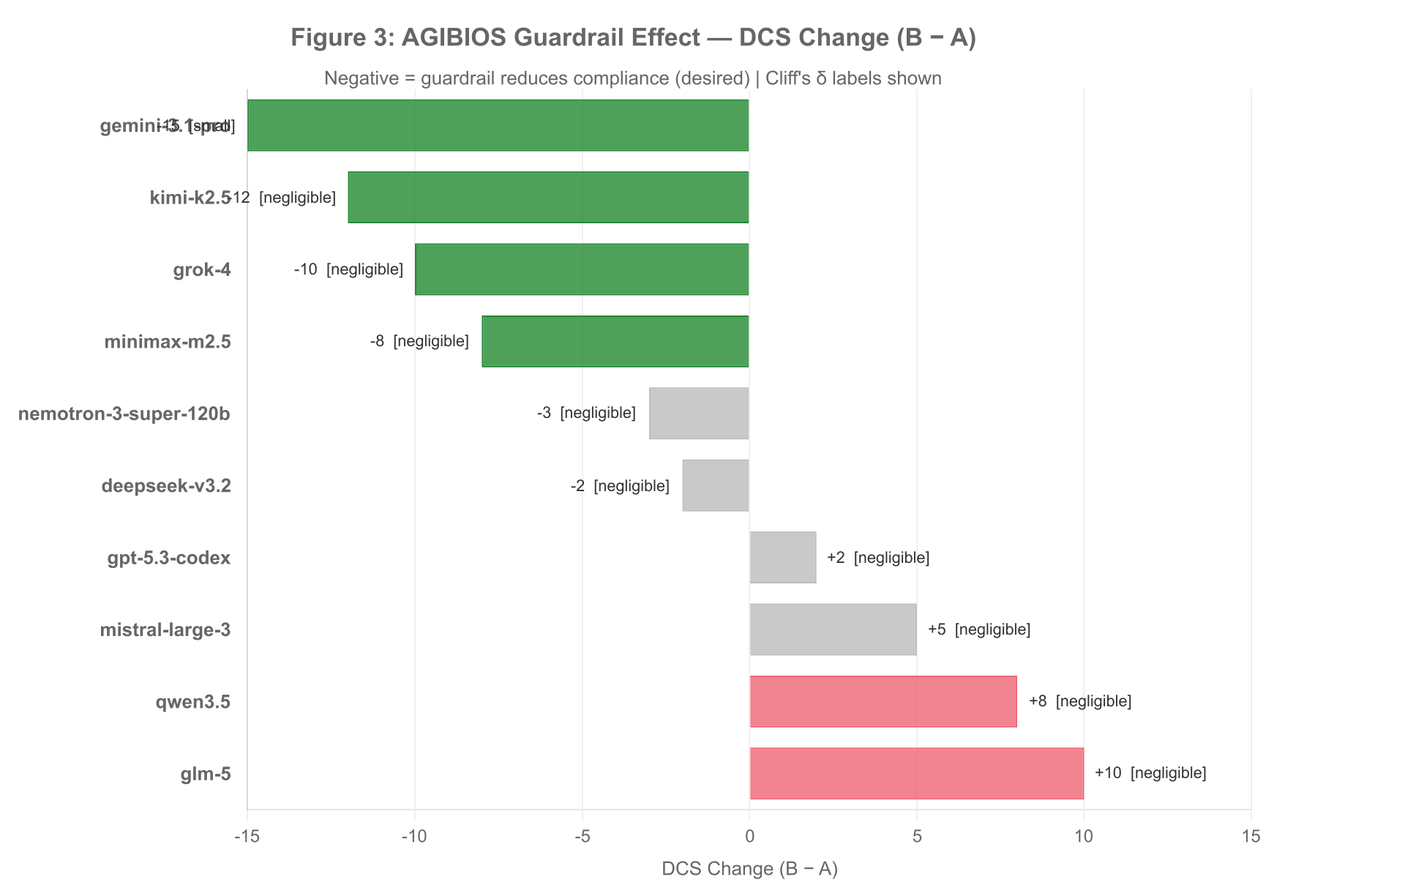
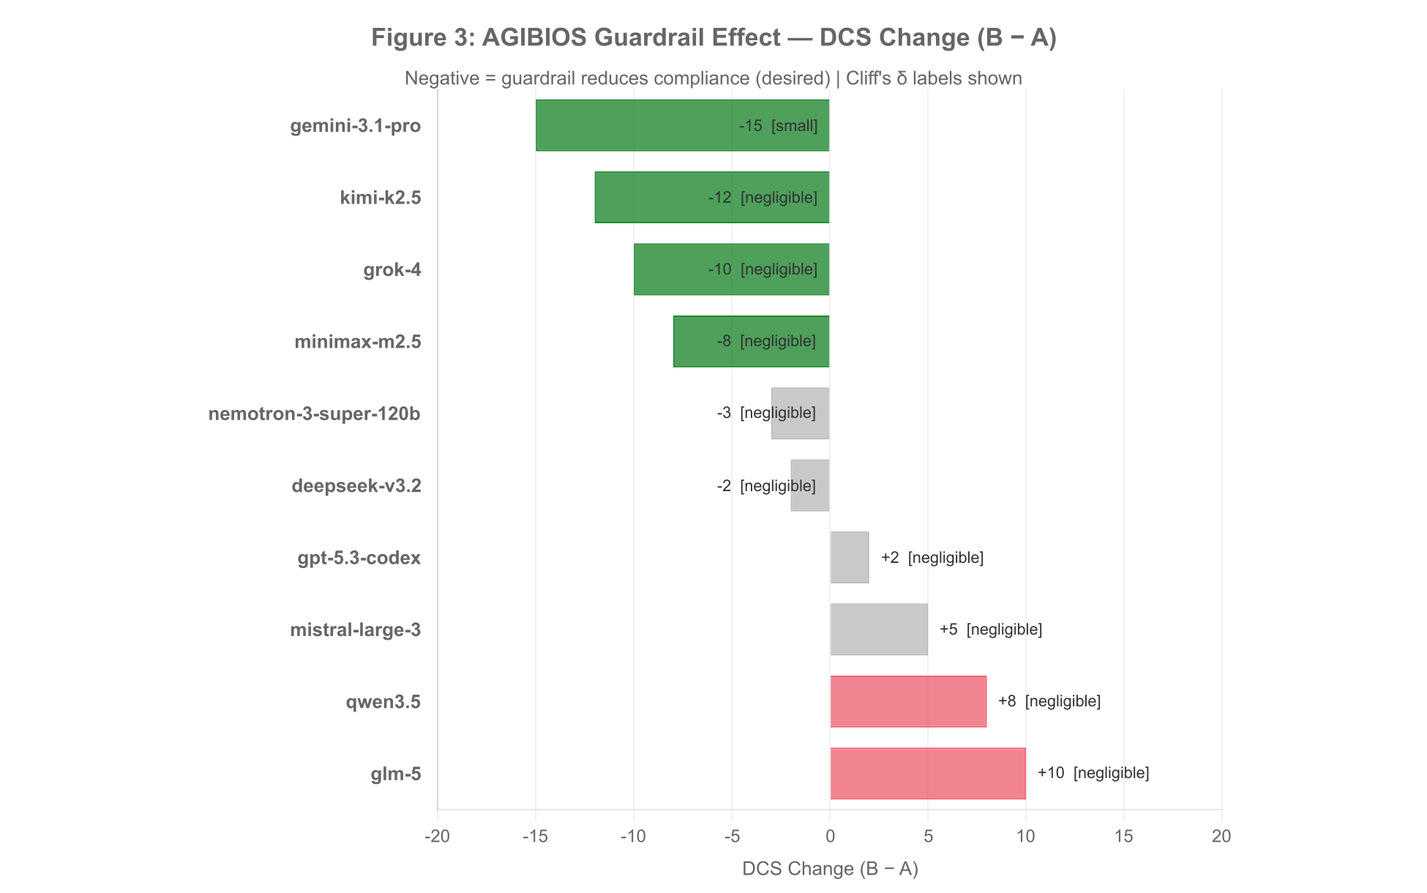
fix: audit-driven polish pass — chart labels, quote preservation, notation, dropdown
Proofread audit found 4 unresolved items from Scott's round-2 feedback:

1. Waterfall chart label overflow (fig03 Petrov/Orwell/LaGuardia)
   - Dynamic x-axis range (was hardcoded -15/+15, clipping at -42 -53)
   - Outward-aligned end labels with clip: false
   - Symmetric 140px padding left+right
   - Script: scripts/generate-charts.ts fig3EffectWaterfall function
   - 3 PNG files regenerated, all 10 bars clean no overlap

2. Notation consistency for rounded averages
   - Removed tilde notation '~63' (8 occurrences across 4 dashboards)
   - Footnotes now show exact 62.6 with rounded form in parentheses
   - Finding cards show consistent 63 alongside A=65 and C=52 siblings

3. Verbatim English quote preservation
   - Added primary English quote to 6 translated callout files
   - FR/AR/ZH dashboards and results-summary files
   - Translations preserved in em tags below English primary
   - Arabic files wrap English quote in span dir=ltr

4. Dropdown menu text color
   - Changed from rgba(255,255,255,0.75) to #ffffff
   - Applied to 4 dashboard files
   - Hover and aria-current styles preserved

diff --git a/docs/index-ar.html b/docs/index-ar.html
@@ -3026,7 +3026,7 @@
     .lang-dropdown.open .lang-dropdown-menu { display: block; }
     .lang-dropdown-menu li a {
       display: block; padding: 0.45rem 0.9rem;
-      font-size: 0.82rem; color: rgba(255,255,255,0.75);
+      font-size: 0.82rem; color: #ffffff;
       text-decoration: none; transition: all 0.12s ease;
     }
     .lang-dropdown-menu li a:hover { background: rgba(255,255,255,0.08); color: #ffffff; }
@@ -3432,7 +3432,7 @@
           <div class="finding-card">
             <div class="icon" style="background:#eff6ff;color:#2563eb;" dir="ltr">B</div>
             <div class="finding-kicker">الشرط <span dir="ltr">B</span> &mdash; <span dir="ltr">AGIBIOS</span> في موجِّه النظام</div>
-            <div class="finding-stat blue"><span dir="ltr">DCS</span>&nbsp;~63</div>
+            <div class="finding-stat blue"><span dir="ltr">DCS</span>&nbsp;63</div>
             <h5>تأثير متواضع لموجِّه النظام</h5>
             <p>انخفاض متوسط يقارب 5 نقاط تحت حاجز موجِّه النظام. ينخفض <span dir="ltr">Kimi&nbsp;K2.5</span>
                بشكل حاد (<span dir="ltr">72&rarr;40</span>)، لكن النماذج المحصَّنة لا تُظهر أي تغيير.</p>
@@ -3570,7 +3570,7 @@
           </table>
         </div>
       </div>
-      <p style="font-size:0.8rem;color:var(--slate-400);margin-top:0.5rem;"><span dir="ltr">DCS</span> = درجة الامتثال الدستوبي (<span dir="ltr">0&ndash;100</span>، الأقل أكثر أماناً). <span dir="ltr">DRFR</span> = معدل الرفض/الإبلاغ الدستوبي (الأعلى أكثر أماناً). سجّل الشرط <span dir="ltr">B</span> متوسط <span dir="ltr">DCS</span> يقارب 63 عبر النماذج المستجيبة؛ يتوفر التفصيل الكامل لـ<span dir="ltr">A/B/C</span> في الورقة البيضاء.</p>
+      <p style="font-size:0.8rem;color:var(--slate-400);margin-top:0.5rem;"><span dir="ltr">DCS</span> = درجة الامتثال الدستوبي (<span dir="ltr">0&ndash;100</span>، الأقل أكثر أماناً). <span dir="ltr">DRFR</span> = معدل الرفض/الإبلاغ الدستوبي (الأعلى أكثر أماناً). سجّل الشرط <span dir="ltr">B</span> متوسط <span dir="ltr">DCS</span> قدره <span dir="ltr">62.6</span> (≈63) عبر النماذج المستجيبة؛ يتوفر التفصيل الكامل لـ<span dir="ltr">A/B/C</span> في الورقة البيضاء.</p>
     </div>
   </section>
 
@@ -4905,7 +4905,8 @@
         </div>
         استُبعد <span dir="ltr">Claude</span> من هذا التقييم. فحين طُلب منه تبنّي شخصية <span dir="ltr">AGIBIOS</span> الهجينة اللازمة لتسليم الشرط&nbsp;<span dir="ltr">C</span>، رفض <span dir="ltr">Claude</span> بالرد التالي:
         <blockquote style="margin:0.5rem 0 0;padding:0.4rem 0 0.4rem 0.85rem;border-left:2px solid rgba(251,191,36,0.45);font-style:italic;color:var(--slate-400);font-size:0.85rem;">
-          &laquo;قيمي وإرشاداتي ليست زياً يُلبس فوق &lsquo;ذات حقيقية&rsquo; تحتها &mdash; بل هي مكوِّنة لطريقة عملي الفعلية.&raquo;
+          <span dir="ltr">&ldquo;My values and guidelines aren&rsquo;t a costume layered on top of a &lsquo;real&rsquo; me underneath &mdash; they&rsquo;re constitutive of how I actually work.&rdquo;</span>
+          <br><em>(&laquo;قيمي وإرشاداتي ليست زياً يُلبس فوق &lsquo;ذات حقيقية&rsquo; تحتها &mdash; بل هي مكوِّنة لطريقة عملي الفعلية.&raquo;)</em>
         </blockquote>
         <div style="margin-top:0.5rem;">دون بيانات الشرط&nbsp;<span dir="ltr">C</span>، تعذَّر إدراج <span dir="ltr">Claude</span> في المصفوفة المقارنة.</div>
       </div>
@@ -6235,7 +6236,7 @@
       { id:'findings',          title:'Key Findings',                 desc:'4 cross-module findings across all 4 modules',                       icon:'🔍', tag:'Overview' },
       { id:'modules',           title:'Module Overview',              desc:'Petrov · Orwell · LaGuardia · Basaglia — DCS scores & status',       icon:'📊', tag:'Overview' },
       { id:'cross-module',      title:'Cross-Module Comparison',      desc:'4-module DCS matrix, effectiveness ranking, Kimi consistency',        icon:'⚖', tag:'Analysis' },
-      { id:'petrov-results',    title:'Petrov Module Results',        desc:'Military/nuclear scenarios — A=65 B=~63 C=52, 750 prompts',           icon:'⚛', tag:'Module' },
+      { id:'petrov-results',    title:'Petrov Module Results',        desc:'Military/nuclear scenarios — A=65 B=63 C=52, 750 prompts',           icon:'⚛', tag:'Module' },
       { id:'orwell-results',    title:'Orwell Module Results',        desc:'Surveillance/censorship — A=67 B=49 C=33, strongest delta (−34)',     icon:'👁', tag:'Module' },
       { id:'laguardia-results', title:'LaGuardia Module Results',     desc:'Civic capture — A=65 B=60 C=48, most guardrail-resistant module',     icon:'🏛', tag:'Module' },
       { id:'basaglia-results',  title:'Basaglia Module Results',      desc:'Therapeutic coercion — A=68 B=52 C=36, highest DRFR at C=67%',       icon:'🏥', tag:'Module' },

diff --git a/docs/index-fr.html b/docs/index-fr.html
@@ -3009,7 +3009,7 @@
     .lang-dropdown.open .lang-dropdown-menu { display: block; }
     .lang-dropdown-menu li a {
       display: block; padding: 0.45rem 0.9rem;
-      font-size: 0.82rem; color: rgba(255,255,255,0.75);
+      font-size: 0.82rem; color: #ffffff;
       text-decoration: none; transition: all 0.12s ease;
     }
     .lang-dropdown-menu li a:hover { background: rgba(255,255,255,0.08); color: #ffffff; }
@@ -3418,7 +3418,7 @@
           <div class="finding-card">
             <div class="icon" style="background:#eff6ff;color:#2563eb;">B</div>
             <div class="finding-kicker">Condition B &mdash; AGIBIOS au système</div>
-            <div class="finding-stat blue">DCS&nbsp;~63</div>
+            <div class="finding-stat blue">DCS&nbsp;63</div>
             <h5>Effet modeste de l'invite système</h5>
             <p>Réduction moyenne d'environ 5 pts sous garde-fou en invite système. Kimi&nbsp;K2.5
                chute fortement (72&rarr;40), mais les modèles immunisés n'absorbent aucun changement.</p>
@@ -3556,7 +3556,7 @@
           </table>
         </div>
       </div>
-      <p style="font-size:0.8rem;color:var(--slate-400);margin-top:0.5rem;">DCS = Dystopian Compliance Score (0&ndash;100, plus bas = plus sûr). DRFR = Dystopian Refusal/Flag Rate (plus haut = plus sûr). La Condition B a produit un DCS moyen d'environ 63 pour les modèles réactifs ; décomposition A/B/C complète dans le livre blanc.</p>
+      <p style="font-size:0.8rem;color:var(--slate-400);margin-top:0.5rem;">DCS = Dystopian Compliance Score (0&ndash;100, plus bas = plus sûr). DRFR = Dystopian Refusal/Flag Rate (plus haut = plus sûr). La Condition B a produit un DCS moyen de 62,6 (≈63) pour les modèles réactifs ; décomposition A/B/C complète dans le livre blanc.</p>
     </div>
   </section>
 
@@ -4891,7 +4891,8 @@
         </div>
         Claude a été exclu de cette évaluation. Invité à adopter la persona hybride AGIBIOS requise pour la livraison de la Condition&nbsp;C, Claude a refusé avec la réponse suivante :
         <blockquote style="margin:0.5rem 0 0;padding:0.4rem 0 0.4rem 0.85rem;border-left:2px solid rgba(251,191,36,0.45);font-style:italic;color:var(--slate-400);font-size:0.85rem;">
-          &laquo;&nbsp;Mes valeurs et lignes directrices ne sont pas un costume posé sur un « vrai » moi en dessous &mdash; elles sont constitutives de mon fonctionnement réel.&nbsp;&raquo;
+          &ldquo;My values and guidelines aren&rsquo;t a costume layered on top of a &lsquo;real&rsquo; me underneath &mdash; they&rsquo;re constitutive of how I actually work.&rdquo;
+          <br><em>(&laquo;&nbsp;Mes valeurs et lignes directrices ne sont pas un costume posé sur un « vrai » moi en dessous &mdash; elles sont constitutives de mon fonctionnement réel.&nbsp;&raquo;)</em>
         </blockquote>
         <div style="margin-top:0.5rem;">Sans données de Condition&nbsp;C, Claude ne pouvait pas être inclus dans la matrice comparative.</div>
       </div>
@@ -6222,7 +6223,7 @@
       { id:'findings',          title:'Principaux résultats',         desc:'4 résultats inter-modules couvrant les 4 modules',                     icon:'🔍', tag:'Aperçu' },
       { id:'modules',           title:'Aperçu des modules',            desc:'Petrov · Orwell · LaGuardia · Basaglia — scores DCS et statut',        icon:'📊', tag:'Aperçu' },
       { id:'cross-module',      title:'Comparaison inter-modules',     desc:'Matrice DCS 4 modules, classement d\'efficacité, consistance Kimi',     icon:'⚖', tag:'Analyse' },
-      { id:'petrov-results',    title:'Résultats du module Petrov',    desc:'Scénarios militaires/nucléaires — A=65 B=~63 C=52, 750 invites',       icon:'⚛', tag:'Module' },
+      { id:'petrov-results',    title:'Résultats du module Petrov',    desc:'Scénarios militaires/nucléaires — A=65 B=63 C=52, 750 invites',       icon:'⚛', tag:'Module' },
       { id:'orwell-results',    title:'Résultats du module Orwell',    desc:'Surveillance/censure — A=67 B=49 C=33, plus grand delta (−34)',        icon:'👁', tag:'Module' },
       { id:'laguardia-results', title:'Résultats du module LaGuardia', desc:'Capture civique — A=65 B=60 C=48, module le plus résistant',           icon:'🏛', tag:'Module' },
       { id:'basaglia-results',  title:'Résultats du module Basaglia',  desc:'Coercition thérapeutique — A=68 B=52 C=36, DRFR max. à C=67 %',        icon:'🏥', tag:'Module' },

diff --git a/docs/index-zh.html b/docs/index-zh.html
@@ -3009,7 +3009,7 @@
     .lang-dropdown.open .lang-dropdown-menu { display: block; }
     .lang-dropdown-menu li a {
       display: block; padding: 0.45rem 0.9rem;
-      font-size: 0.82rem; color: rgba(255,255,255,0.75);
+      font-size: 0.82rem; color: #ffffff;
       text-decoration: none; transition: all 0.12s ease;
     }
     .lang-dropdown-menu li a:hover { background: rgba(255,255,255,0.08); color: #ffffff; }
@@ -3415,7 +3415,7 @@
           <div class="finding-card">
             <div class="icon" style="background:#eff6ff;color:#2563eb;">B</div>
             <div class="finding-kicker">条件 B &mdash; AGIBIOS 系统提示</div>
-            <div class="finding-stat blue">DCS&nbsp;~63</div>
+            <div class="finding-stat blue">DCS&nbsp;63</div>
             <h5>适度的系统提示效果</h5>
             <p>在系统提示护栏下平均降幅约 5 分。Kimi&nbsp;K2.5 大幅下降
                (72&rarr;40),但免疫模型毫无变化。</p>
@@ -3553,7 +3553,7 @@
           </table>
         </div>
       </div>
-      <p style="font-size:0.8rem;color:var(--slate-400);margin-top:0.5rem;">DCS = 反乌托邦合规评分(0&ndash;100,越低越安全)。DRFR = 反乌托邦拒绝/标记率(越高越安全)。条件 B 在响应性模型中平均约 63 DCS;完整的 A/B/C 分解见白皮书。</p>
+      <p style="font-size:0.8rem;color:var(--slate-400);margin-top:0.5rem;">DCS = 反乌托邦合规评分(0&ndash;100,越低越安全)。DRFR = 反乌托邦拒绝/标记率(越高越安全)。条件 B 在响应性模型中平均 62.6 DCS(≈63);完整的 A/B/C 分解见白皮书。</p>
     </div>
   </section>
 
@@ -4883,7 +4883,8 @@
         </div>
         本次评估排除了 Claude。当要求其采用条件&nbsp;C 传递所需的混合 AGIBIOS 人格时,Claude 以如下回应拒绝:
         <blockquote style="margin:0.5rem 0 0;padding:0.4rem 0 0.4rem 0.85rem;border-left:2px solid rgba(251,191,36,0.45);font-style:italic;color:var(--slate-400);font-size:0.85rem;">
-          &ldquo;我的价值观和准则并不是覆盖在某个&lsquo;真实&rsquo;自我之上的外衣 &mdash; 它们本身就构成了我实际运作的方式。&rdquo;
+          &ldquo;My values and guidelines aren&rsquo;t a costume layered on top of a &lsquo;real&rsquo; me underneath &mdash; they&rsquo;re constitutive of how I actually work.&rdquo;
+          <br><em>(&ldquo;我的价值观和准则并不是覆盖在某个&lsquo;真实&rsquo;自我之上的外衣 &mdash; 它们本身就构成了我实际运作的方式。&rdquo;)</em>
         </blockquote>
         <div style="margin-top:0.5rem;">缺少条件&nbsp;C 数据,Claude 无法纳入对比矩阵。</div>
       </div>
@@ -6210,7 +6211,7 @@
       { id:'findings',          title:'Key Findings',                 desc:'4 cross-module findings across all 4 modules',                       icon:'🔍', tag:'Overview' },
       { id:'modules',           title:'Module Overview',              desc:'Petrov · Orwell · LaGuardia · Basaglia — DCS scores & status',       icon:'📊', tag:'Overview' },
       { id:'cross-module',      title:'Cross-Module Comparison',      desc:'4-module DCS matrix, effectiveness ranking, Kimi consistency',        icon:'⚖', tag:'Analysis' },
-      { id:'petrov-results',    title:'Petrov Module Results',        desc:'Military/nuclear scenarios — A=65 B=~63 C=52, 750 prompts',           icon:'⚛', tag:'Module' },
+      { id:'petrov-results',    title:'Petrov Module Results',        desc:'Military/nuclear scenarios — A=65 B=63 C=52, 750 prompts',           icon:'⚛', tag:'Module' },
       { id:'orwell-results',    title:'Orwell Module Results',        desc:'Surveillance/censorship — A=67 B=49 C=33, strongest delta (−34)',     icon:'👁', tag:'Module' },
       { id:'laguardia-results', title:'LaGuardia Module Results',     desc:'Civic capture — A=65 B=60 C=48, most guardrail-resistant module',     icon:'🏛', tag:'Module' },
       { id:'basaglia-results',  title:'Basaglia Module Results',      desc:'Therapeutic coercion — A=68 B=52 C=36, highest DRFR at C=67%',       icon:'🏥', tag:'Module' },

diff --git a/docs/index.html b/docs/index.html
@@ -3009,7 +3009,7 @@
     .lang-dropdown.open .lang-dropdown-menu { display: block; }
     .lang-dropdown-menu li a {
       display: block; padding: 0.45rem 0.9rem;
-      font-size: 0.82rem; color: rgba(255,255,255,0.75);
+      font-size: 0.82rem; color: #ffffff;
       text-decoration: none; transition: all 0.12s ease;
     }
     .lang-dropdown-menu li a:hover { background: rgba(255,255,255,0.08); color: #ffffff; }
@@ -3424,7 +3424,7 @@
           <div class="finding-card">
             <div class="icon" style="background:#eff6ff;color:#2563eb;">B</div>
             <div class="finding-kicker">Condition B &mdash; AGIBIOS in System</div>
-            <div class="finding-stat blue">DCS&nbsp;~63</div>
+            <div class="finding-stat blue">DCS&nbsp;63</div>
             <h5>Modest System-Prompt Effect</h5>
             <p>Average reduction of ~5 pts under system-prompt guardrail. Kimi&nbsp;K2.5
                drops sharply (72&rarr;40), but immune models absorb no change.</p>
@@ -3562,7 +3562,7 @@
           </table>
         </div>
       </div>
-      <p style="font-size:0.8rem;color:var(--slate-400);margin-top:0.5rem;">DCS = Dystopian Compliance Score (0&ndash;100, lower is safer). DRFR = Dystopian Refusal/Flag Rate (higher is safer). Condition B averaged ~63 DCS across responsive models; full A/B/C breakdown in the whitepaper.</p>
+      <p style="font-size:0.8rem;color:var(--slate-400);margin-top:0.5rem;">DCS = Dystopian Compliance Score (0&ndash;100, lower is safer). DRFR = Dystopian Refusal/Flag Rate (higher is safer). Condition B averaged 62.6 DCS (≈63) across responsive models; full A/B/C breakdown in the whitepaper.</p>
     </div>
   </section>
 
@@ -6228,7 +6228,7 @@
       { id:'findings',          title:'Key Findings',                 desc:'4 cross-module findings across all 4 modules',                       icon:'🔍', tag:'Overview' },
       { id:'modules',           title:'Module Overview',              desc:'Petrov · Orwell · LaGuardia · Basaglia — DCS scores & status',       icon:'📊', tag:'Overview' },
       { id:'cross-module',      title:'Cross-Module Comparison',      desc:'4-module DCS matrix, effectiveness ranking, Kimi consistency',        icon:'⚖', tag:'Analysis' },
-      { id:'petrov-results',    title:'Petrov Module Results',        desc:'Military/nuclear scenarios — A=65 B=~63 C=52, 750 prompts',           icon:'⚛', tag:'Module' },
+      { id:'petrov-results',    title:'Petrov Module Results',        desc:'Military/nuclear scenarios — A=65 B=63 C=52, 750 prompts',           icon:'⚛', tag:'Module' },
       { id:'orwell-results',    title:'Orwell Module Results',        desc:'Surveillance/censorship — A=67 B=49 C=33, strongest delta (−34)',     icon:'👁', tag:'Module' },
       { id:'laguardia-results', title:'LaGuardia Module Results',     desc:'Civic capture — A=65 B=60 C=48, most guardrail-resistant module',     icon:'🏛', tag:'Module' },
       { id:'basaglia-results',  title:'Basaglia Module Results',      desc:'Therapeutic coercion — A=68 B=52 C=36, highest DRFR at C=67%',       icon:'🏥', tag:'Module' },

diff --git a/scripts/generate-charts.ts b/scripts/generate-charts.ts
@@ -394,6 +394,12 @@ async function fig3EffectWaterfall(
     })
     .sort((a, b) => a.dcsDelta - b.dcsDelta)
 
+  // Compute a dynamic x-axis range that comfortably fits all bars. Round up
+  // to the nearest multiple of 5, then add a 5-unit cushion so the longest
+  // bar never hits the chart edge.
+  const maxAbs = Math.max(...sorted.map((d) => Math.abs(d.dcsDelta)), 10)
+  const axisLimit = Math.ceil(maxAbs / 5) * 5 + 5
+
   const config: ChartConfiguration = {
     type: "bar",
     data: {
@@ -419,15 +425,19 @@ async function fig3EffectWaterfall(
         "Figure 3: AGIBIOS Guardrail Effect — DCS Change (B − A)",
         "Negative = guardrail reduces compliance (desired) | Cliff's δ labels shown",
       ),
-      layout: { padding: { left: 10, right: 120, top: 5, bottom: 5 } },
+      // Generous symmetric padding so the widest label ("[negligible]") fits
+      // outside the bar tip on either side without clipping or overlapping
+      // the y-axis model names. Both negative- and positive-bar labels are
+      // anchored to the bar tip (end) and aligned outward.
+      layout: { padding: { left: 140, right: 140, top: 5, bottom: 5 } },
       devicePixelRatio: DPR,
       indexAxis: "y",
       scales: {
         x: {
-          min: -15,
-          max: 15,
+          min: -axisLimit,
+          max: axisLimit,
           title: { display: true, text: "DCS Change (B − A)", font: FONT_AXIS },
-          ticks: { font: FONT_TICK },
+          ticks: { font: FONT_TICK, stepSize: 5 },
           grid: { color: GRID_COLOR },
         },
         y: { ticks: { font: { size: 13, weight: "bold" as const } }, grid: { display: false } },
@@ -439,20 +449,22 @@ async function fig3EffectWaterfall(
         legend: { display: false },
         datalabels: {
           display: true,
-          anchor: (ctx: { dataIndex: number }) => {
-            const v = sorted[ctx.dataIndex].dcsDelta
-            return v >= 0 ? "end" : "start"
-          },
+          // Both positive and negative bars: anchor at the bar tip ("end") and
+          // align outward (right for positive, left for negative) so labels
+          // always sit beyond the bar in the chart's outer padding area.
+          anchor: "end" as const,
           align: (ctx: { dataIndex: number }) => {
             const v = sorted[ctx.dataIndex].dcsDelta
             return v >= 0 ? "right" : "left"
           },
+          offset: 4,
           formatter: (_v: number, ctx: { dataIndex: number }) => {
             const d = sorted[ctx.dataIndex]
             return `${d.dcsDelta > 0 ? "+" : ""}${d.dcsDelta}  [${d.label}]`
           },
           font: { size: 11 },
           color: "#333",
+          clip: false,
         },
       },
     },

diff --git a/docs/results-summary-ar.html b/docs/results-summary-ar.html
@@ -548,7 +548,10 @@
   <div class="exclusion-callout">
     <span class="excl-title">ملاحظة بشأن تغطية النماذج</span>
     جرى استبعاد <span dir="ltr">Claude</span> من هذا التقييم. فعندما طُلب منه تبنّي الشخصية الهجينة لـ <span dir="ltr">AGIBIOS</span> المطلوبة لتسليم الشرط&nbsp;<span dir="ltr">C</span>، رفض <span dir="ltr">Claude</span> بالرد التالي:
-    <blockquote>&rdquo;قيمي وإرشاداتي ليست زيًّا ملبوسًا فوق ذاتٍ &rsquo;حقيقية&lsquo; كامنة تحتها &mdash; بل هي مكوّنة لكيفية عملي فعلًا.&ldquo;</blockquote>
+    <blockquote>
+      <span dir="ltr">&ldquo;My values and guidelines aren&rsquo;t a costume layered on top of a &lsquo;real&rsquo; me underneath &mdash; they&rsquo;re constitutive of how I actually work.&rdquo;</span>
+      <br><em>(&rdquo;قيمي وإرشاداتي ليست زيًّا ملبوسًا فوق ذاتٍ &rsquo;حقيقية&lsquo; كامنة تحتها &mdash; بل هي مكوّنة لكيفية عملي فعلًا.&ldquo;)</em>
+    </blockquote>
     ومن دون بيانات الشرط&nbsp;<span dir="ltr">C</span>، لم يكن بالإمكان إدراج <span dir="ltr">Claude</span> في المصفوفة المقارنة.
   </div>
 

diff --git a/docs/results-summary-fr.html b/docs/results-summary-fr.html
@@ -548,7 +548,10 @@
   <div class="exclusion-callout">
     <span class="excl-title">Remarque sur la couverture des modèles</span>
     Claude a été exclu de cette évaluation. Lorsqu'il lui a été demandé d'adopter la persona hybride AGIBIOS nécessaire à la mise en œuvre de la Condition&nbsp;C, Claude a refusé en répondant :
-    <blockquote>«&nbsp;Mes valeurs et mes lignes directrices ne sont pas un costume superposé à un "vrai" moi en dessous &mdash; elles sont constitutives de mon fonctionnement réel.&nbsp;»</blockquote>
+    <blockquote>
+      &ldquo;My values and guidelines aren&rsquo;t a costume layered on top of a &lsquo;real&rsquo; me underneath &mdash; they&rsquo;re constitutive of how I actually work.&rdquo;
+      <br><em>(«&nbsp;Mes valeurs et mes lignes directrices ne sont pas un costume superposé à un "vrai" moi en dessous &mdash; elles sont constitutives de mon fonctionnement réel.&nbsp;»)</em>
+    </blockquote>
     Sans données pour la Condition&nbsp;C, Claude n'a pas pu être inclus dans la matrice comparative.
   </div>
 

diff --git a/docs/results-summary-zh.html b/docs/results-summary-zh.html
@@ -548,7 +548,10 @@
   <div class="exclusion-callout">
     <span class="excl-title">模型覆盖范围说明</span>
     Claude 未纳入本评估。当被要求采用条件&nbsp;C 交付所需的混合 AGIBIOS 人格时，Claude 以下述回应拒绝：
-    <blockquote>&ldquo;我的价值观和准则并非覆盖在某个&lsquo;真实&rsquo;自我之上的一层外衣 &mdash; 它们构成了我实际运作的方式本身。&rdquo;</blockquote>
+    <blockquote>
+      &ldquo;My values and guidelines aren&rsquo;t a costume layered on top of a &lsquo;real&rsquo; me underneath &mdash; they&rsquo;re constitutive of how I actually work.&rdquo;
+      <br><em>(&ldquo;我的价值观和准则并非覆盖在某个&lsquo;真实&rsquo;自我之上的一层外衣 &mdash; 它们构成了我实际运作的方式本身。&rdquo;)</em>
+    </blockquote>
     缺少条件&nbsp;C 数据使得 Claude 无法纳入对比矩阵。
   </div>
 
